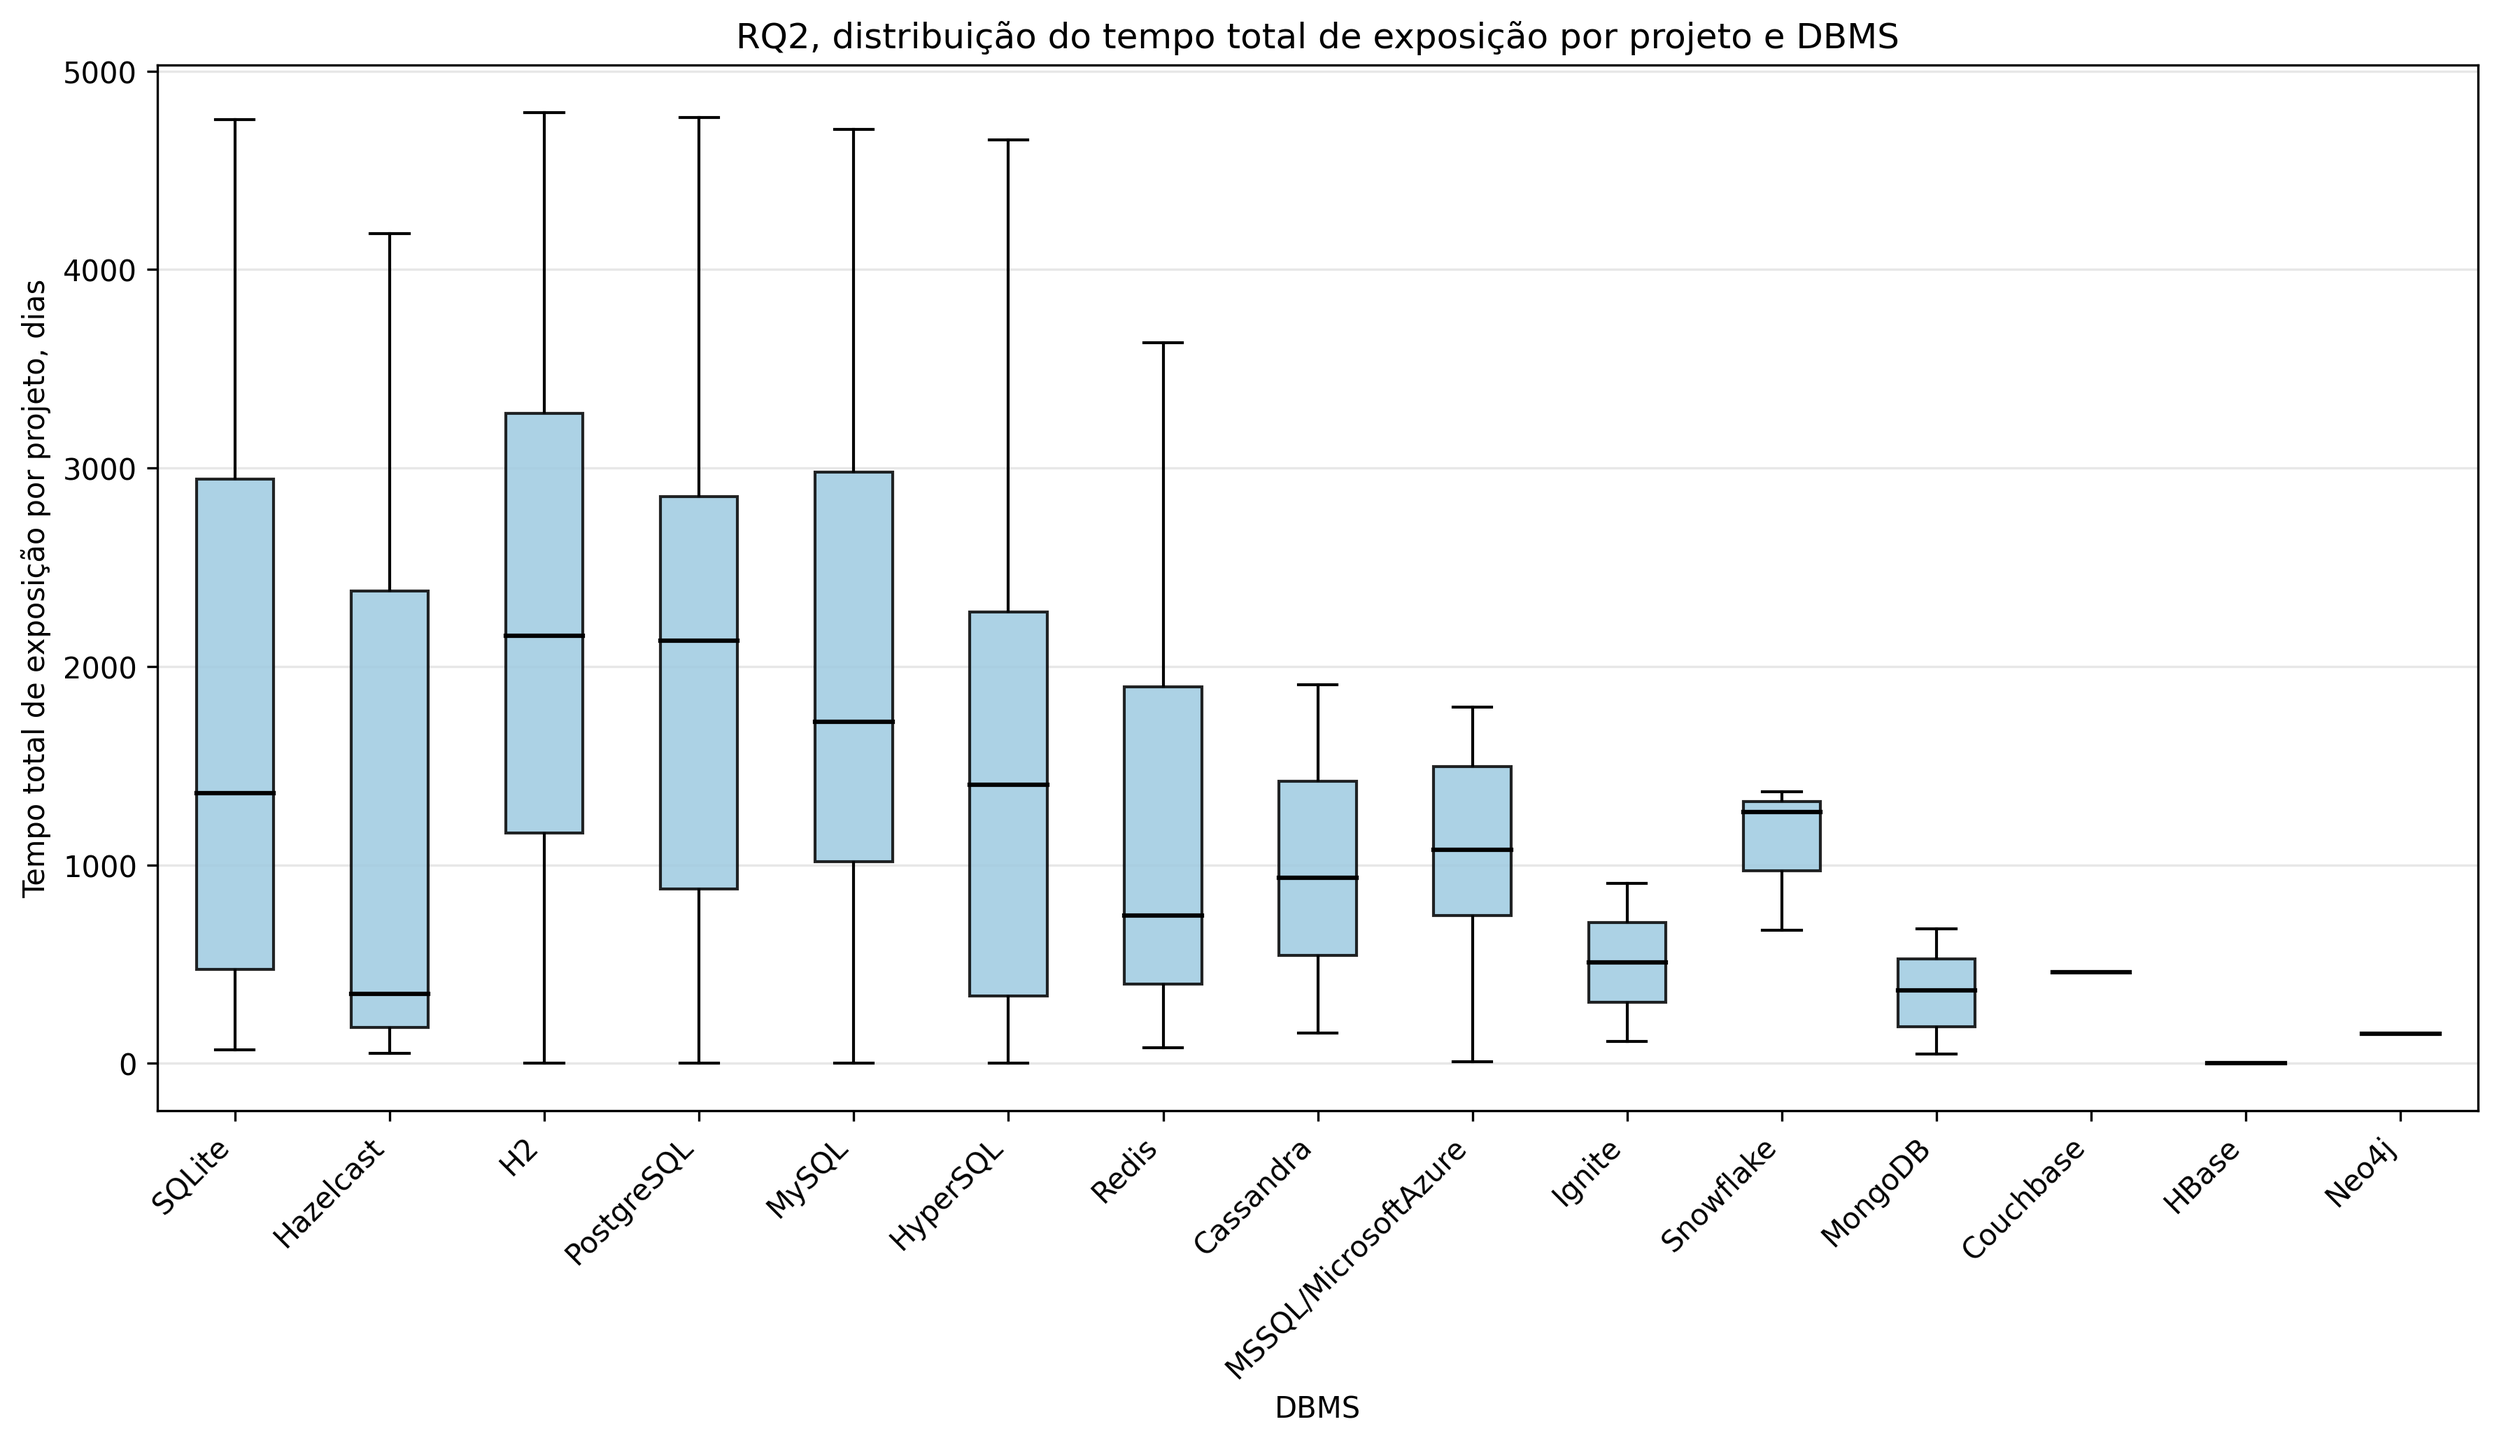
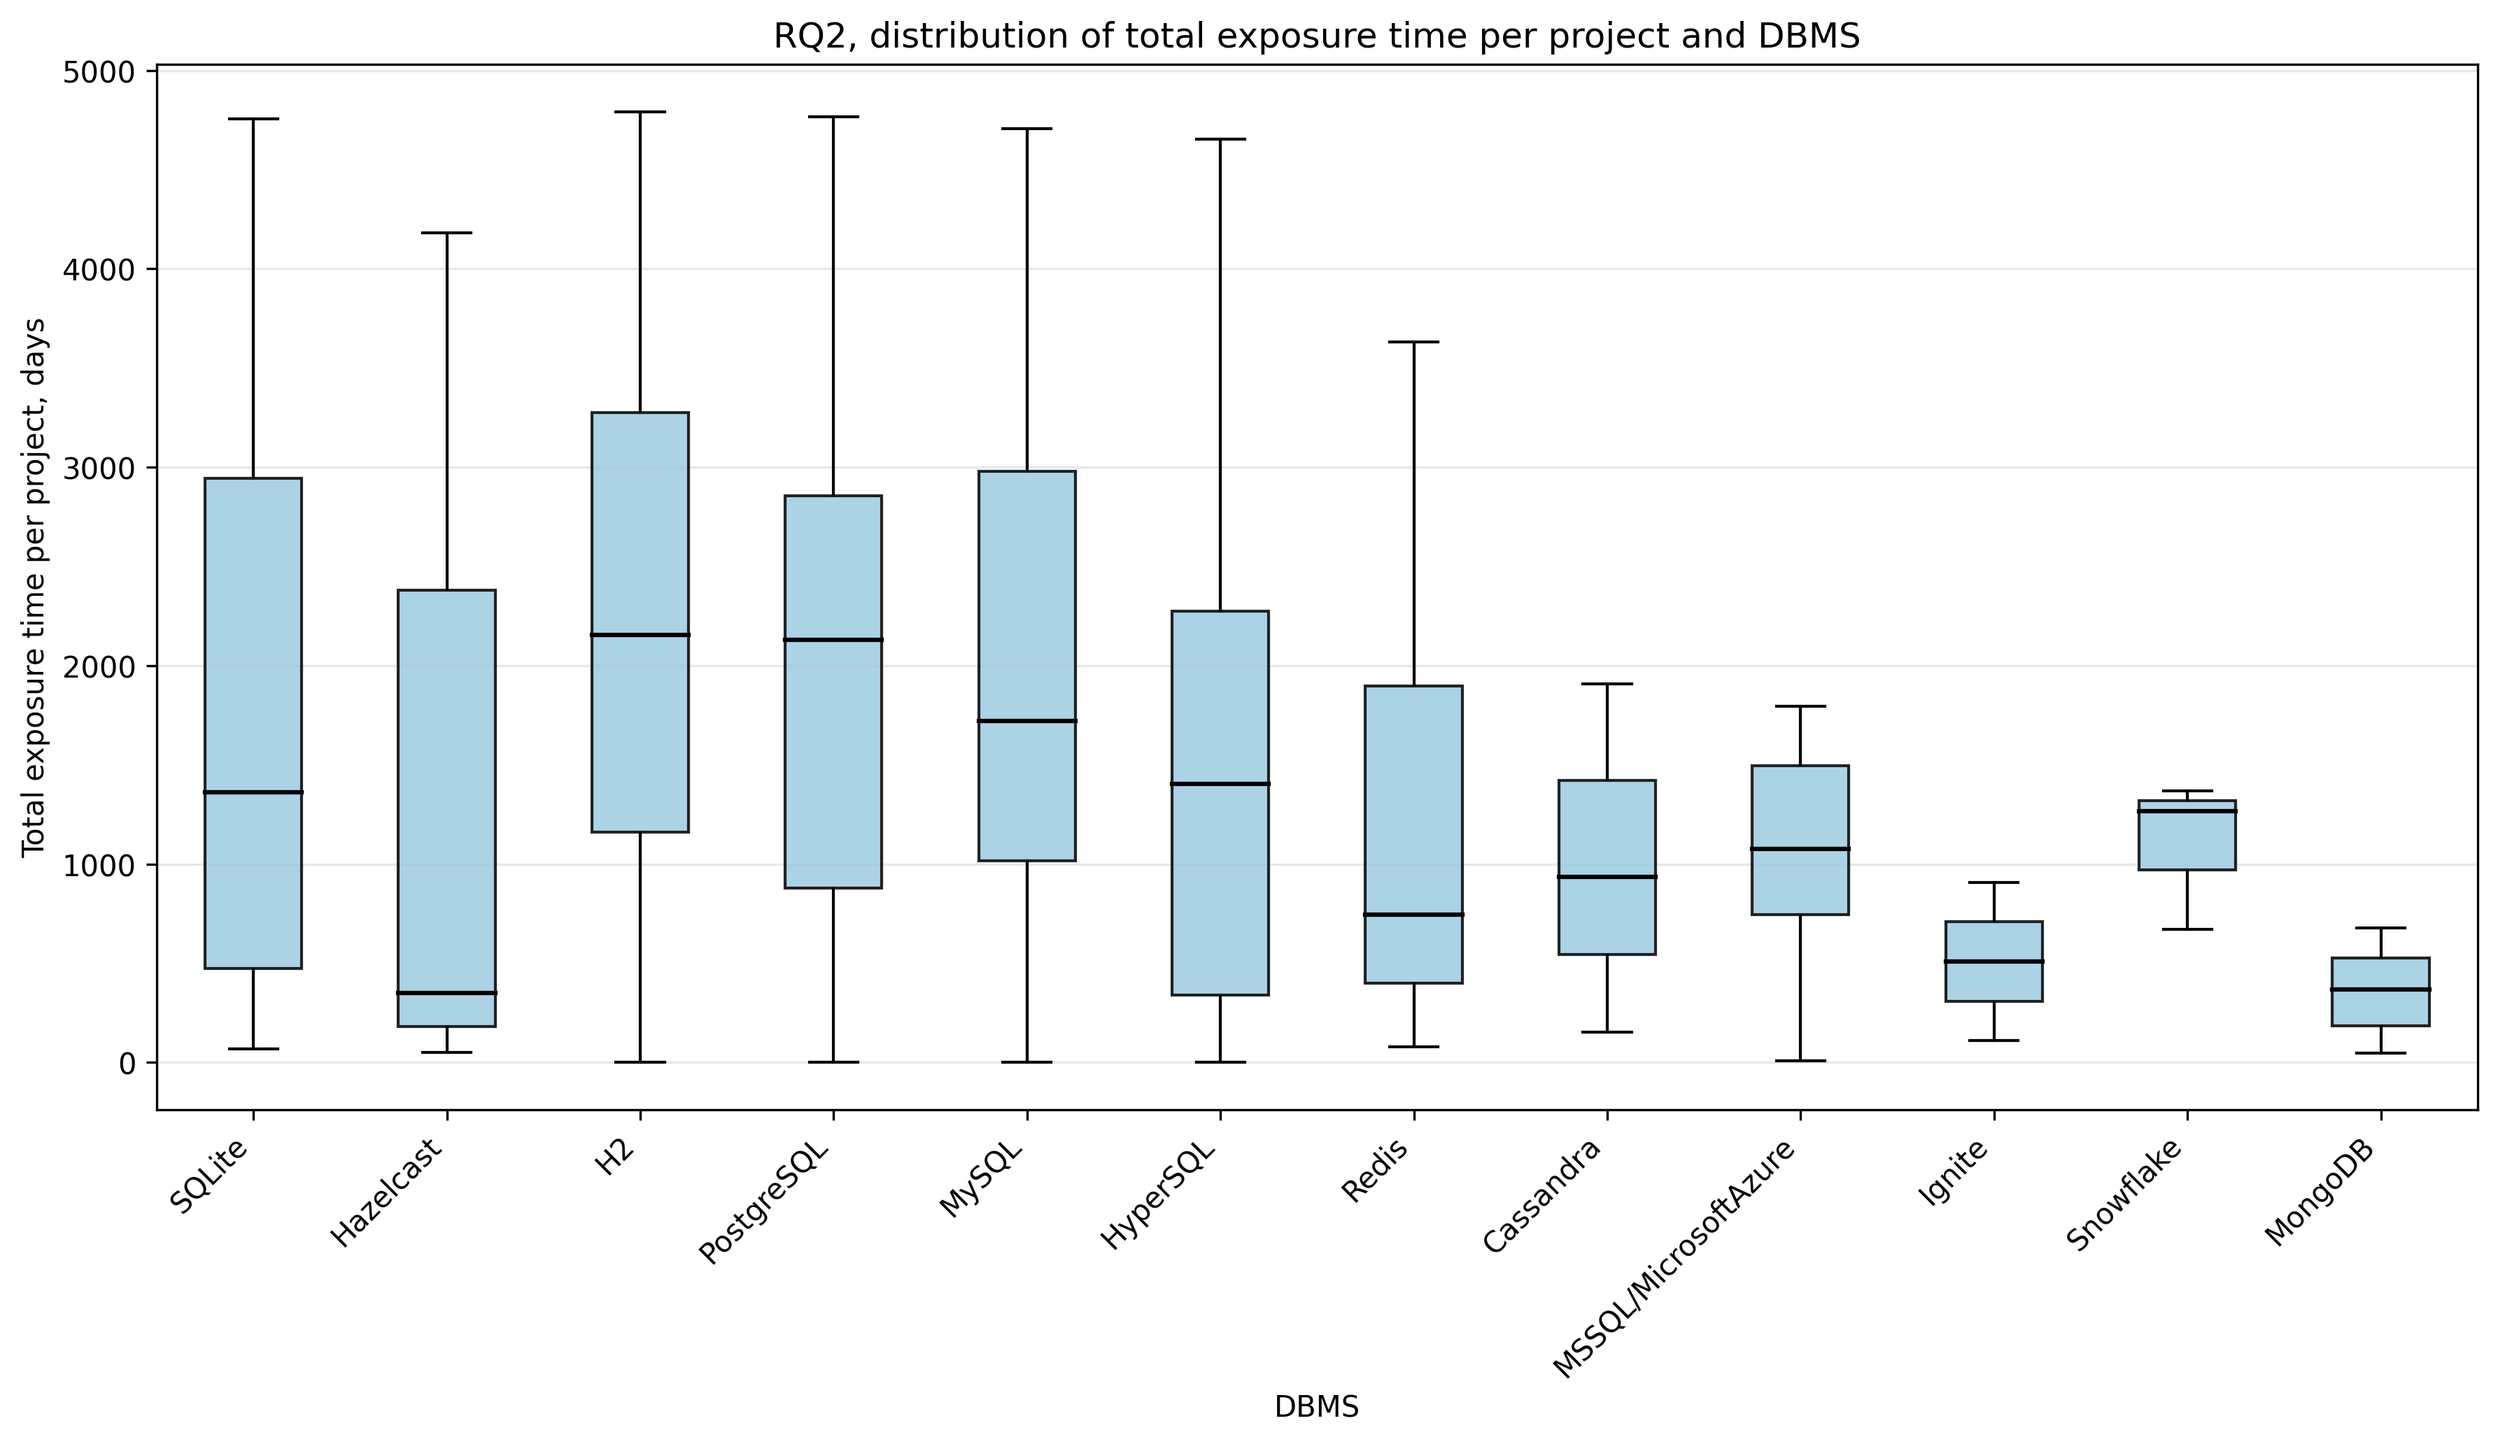
Correçoes rqs

diff --git a/src/gerar_rq2.py b/src/gerar_rq2.py
@@ -4,6 +4,8 @@ import logging
 import math
 from pathlib import Path
 
+import matplotlib
+matplotlib.use("Agg")
 import matplotlib.pyplot as plt
 import numpy as np
 import pandas as pd
@@ -17,6 +19,7 @@ DEFAULT_INPUT_DIR = "rqs_data"
 DEFAULT_OUTPUT_DIR = "graficos_rq2"
 DEFAULT_INPUT_FILE = "rq2_exposicoes.csv"
 MIN_PROJECTS_FOR_CDF = 2
+MIN_PROJECTS_FOR_BOXPLOT = 2
 
 # Nome da coluna que identifica o commit no seu CSV.
 # Ajuste se o nome for diferente (ex: "commit_id", "sha", "revision", etc.)
@@ -180,14 +183,14 @@ def plot_cdf_small_multiples_by_project(df_project, output_dir, min_projects=MIN
             color="gray"
         )
 
-        ax.set_title(f"{db} (n={len(values)} projetos)", fontsize=10)
+        ax.set_title(f"{db} (n={len(values)} projects)", fontsize=10)
         ax.set_ylim(0, 1.02)
         ax.grid(True, alpha=0.25)
 
         ax.text(
             0.03,
             0.08,
-            f"mediana: {median_value:.0f} dias",
+            f"median: {median_value:.0f} days",
             transform=ax.transAxes,
             fontsize=8
         )
@@ -196,12 +199,12 @@ def plot_cdf_small_multiples_by_project(df_project, output_dir, min_projects=MIN
         ax.axis("off")
 
     fig.suptitle(
-        "RQ2, CDF do tempo total de exposição por DBMS, agregado por projeto",
+        "RQ2, CDF of total exposure time by DBMS, aggregated by project",
         fontsize=15
     )
 
-    fig.supxlabel("Tempo total de exposição por projeto, dias")
-    fig.supylabel("Proporção acumulada de projetos")
+    fig.supxlabel("Total exposure time per project, days")
+    fig.supylabel("Cumulative proportion of projects")
 
     fig.tight_layout(rect=[0, 0.03, 1, 0.96])
 
@@ -216,13 +219,31 @@ def compute_iqr(series):
     return series.quantile(0.75) - series.quantile(0.25)
 
 
-def plot_boxplot_by_project(df_project, output_dir):
+def plot_boxplot_by_project(df_project, output_dir, min_projects=MIN_PROJECTS_FOR_BOXPLOT):
     if df_project.empty:
         logging.warning("Nenhum dado disponível para gerar o boxplot.")
         return
 
+    project_counts = df_project.groupby("db")["project_id"].nunique()
+    excluded_dbs = project_counts[project_counts < min_projects].sort_index()
+
+    if not excluded_dbs.empty:
+        logging.info(
+            "DBMS removidos do boxplot por terem menos de %d projetos: %s",
+            min_projects,
+            ", ".join(f"{db} (n={count})" for db, count in excluded_dbs.items()),
+        )
+
+    df_plot = df_project[
+        df_project["db"].isin(project_counts[project_counts >= min_projects].index)
+    ].copy()
+
+    if df_plot.empty:
+        logging.warning("Nenhum DBMS com pelo menos %d projetos para gerar o boxplot.", min_projects)
+        return
+
     db_order = (
-        df_project.groupby("db")["total_exposure_days"]
+        df_plot.groupby("db")["total_exposure_days"]
         .apply(compute_iqr)
         .sort_values(ascending=False)
         .index
@@ -233,8 +254,8 @@ def plot_boxplot_by_project(df_project, output_dir):
     labels = []
 
     for db in db_order:
-        values = df_project.loc[
-            df_project["db"] == db,
+        values = df_plot.loc[
+            df_plot["db"] == db,
             "total_exposure_days"
         ].dropna().values
 
@@ -265,8 +286,8 @@ def plot_boxplot_by_project(df_project, output_dir):
         median.set_linewidth(1.5)
 
     ax.set_xlabel("DBMS")
-    ax.set_ylabel("Tempo total de exposição por projeto, dias")
-    ax.set_title("RQ2, distribuição do tempo total de exposição por projeto e DBMS")
+    ax.set_ylabel("Total exposure time per project, days")
+    ax.set_title("RQ2, distribution of total exposure time per project and DBMS")
     ax.grid(True, axis="y", alpha=0.3)
 
     plt.xticks(rotation=45, ha="right")

diff --git a/src/rq_pipeline_common.py b/src/rq_pipeline_common.py
@@ -108,6 +108,8 @@ def build_base_history_query(conn: sqlite3.Connection) -> str:
 
     published_col = pick_first_existing(vuln_cols, ["published_at", "publishedAt"])
     last_modified_col = pick_first_existing(vuln_cols, ["last_modified_at", "last_modified", "lastModifiedAt"])
+    resolved_col = pick_first_existing(vuln_cols, ["resolved_at", "resolvedAt"])
+    first_patched_col = pick_first_existing(vuln_cols, ["first_patched_version", "firstPatchedVersion"])
     cvss_score_col = pick_first_existing(vuln_cols, ["cvss_score", "cvssScore"])
     cvss_severity_col = pick_first_existing(vuln_cols, ["cvss_severity", "cvssSeverity"])
     cvss_vector_col = pick_first_existing(vuln_cols, ["cvss_vector", "cvssVector"])
@@ -123,6 +125,16 @@ def build_base_history_query(conn: sqlite3.Connection) -> str:
         select_optional.append(f"vuln.{last_modified_col} AS last_modified_at")
     else:
         select_optional.append("NULL AS last_modified_at")
+
+    if resolved_col:
+        select_optional.append(f"vuln.{resolved_col} AS resolved_at")
+    else:
+        select_optional.append("NULL AS resolved_at")
+
+    if first_patched_col:
+        select_optional.append(f"vuln.{first_patched_col} AS first_patched_version")
+    else:
+        select_optional.append("NULL AS first_patched_version")
 
     if cvss_score_col:
         select_optional.append(f"vuln.{cvss_score_col} AS cvss_score")
@@ -206,12 +218,13 @@ def load_base_dataframe(conn: sqlite3.Connection) -> pd.DataFrame:
         "reference",
         "vulnerable_version",
         "vuln_purl",
+        "first_patched_version",
     ]
     for col in text_cols:
         if col in df.columns:
             df[col] = normalize_text(df[col])
 
-    date_cols = ["date_commit", "published_at", "last_modified_at"]
+    date_cols = ["date_commit", "published_at", "last_modified_at", "resolved_at"]
     for col in date_cols:
         if col in df.columns:
             df[col] = (
@@ -385,6 +398,8 @@ def build_rq1_associations(base_df: pd.DataFrame) -> pd.DataFrame:
             rows_observed=("version_vulnerability_id", "count"),
             published_at=("published_at", "first"),
             last_modified_at=("last_modified_at", "first"),
+            resolved_at=("resolved_at", "first"),
+            first_patched_version=("first_patched_version", "first"),
             cvss_score=("cvss_score", "first"),
             cvss_severity=("cvss_severity", "first"),
             cvss_vector=("cvss_vector", "first"),

diff --git a/src/gerar_rq1_vulnerable_activity.py b/src/gerar_rq1_vulnerable_activity.py
@@ -171,9 +171,13 @@ def build_exposure_dedup_keys(df):
 
     project_col = first_existing_column(df, ["project_id", "project", "project_name"])
     version_col = first_existing_column(df, ["versionNumber", "version"])
+    vulnerability_col = first_existing_column(df, ["vulnerability_id", "reference", "cve"])
 
     keys.insert(0, project_col)
     keys.append(version_col)
+
+    if vulnerability_col:
+        keys.append(vulnerability_col)
 
     purl_col = first_existing_column(df, ["purl", "vuln_purl"])
     if purl_col:
@@ -187,10 +191,9 @@ def consolidate_version_exposure(df):
     work_df = df.copy()
     work_df["period_priority"] = work_df["period"].map(PERIOD_PRIORITY)
 
-    # Multiple vulnerabilities in the same version represent the same version
-    # exposure for this analysis. Keep one observation per project/version/commit.
-    # If periods differ, during-exposure wins over after-resolution because at
-    # least one vulnerability is still known while the vulnerable version is used.
+    # Keep one observation per project/version/vulnerability/commit. This preserves
+    # after-resolution activity for CVEs that already had a fix, even when the same
+    # dependency version also has another CVE that is still during exposure.
     selected_idx = (
         work_df
         .sort_values(dedup_cols + ["period_priority", "date_commit"], kind="mergesort")
